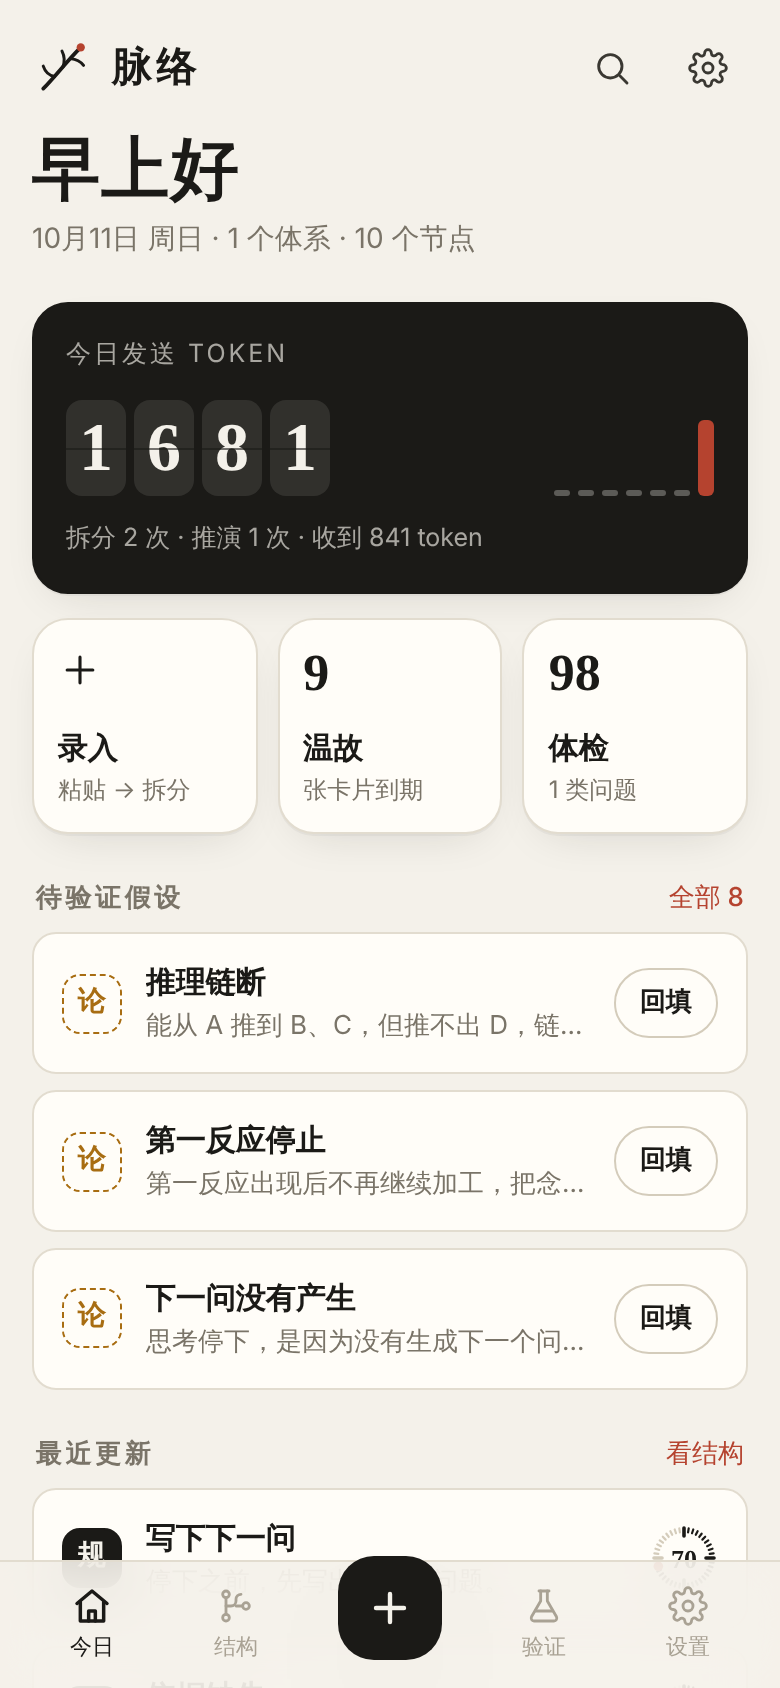
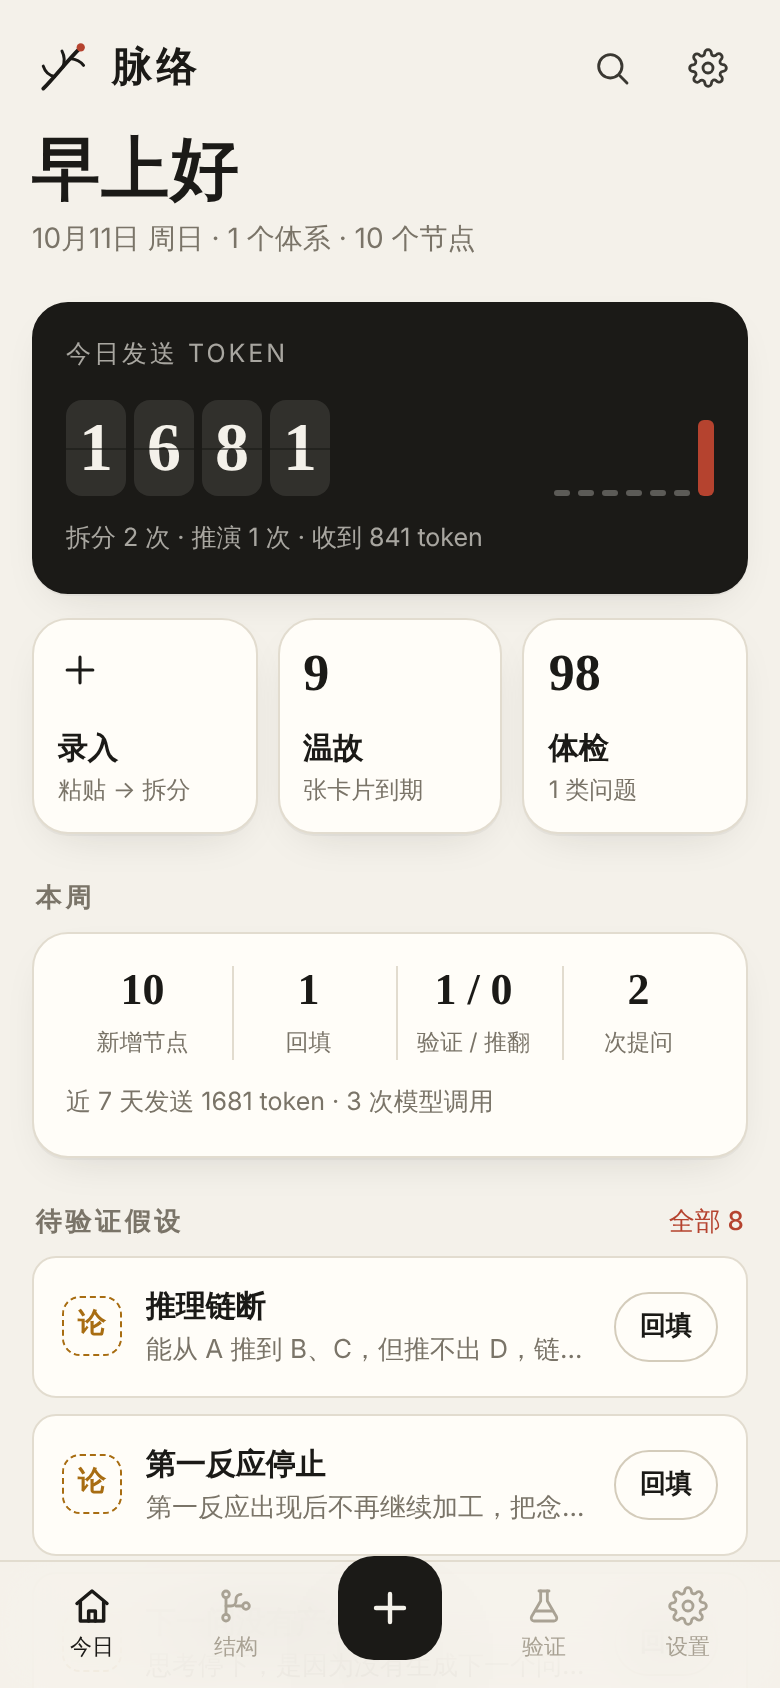
脉络 v0.1.4: weekly digest, one-tap 类似 links, duplicate merge, date fix
- Fix: js-yaml's default schema parsed `created: 2026-10-10` into a JS
  Date, so any node re-read from disk and saved again got its dates
  rewritten as "Sun Oct 11 2026 …". Parse with CORE_SCHEMA and repair
  dates already corrupted by earlier versions on read.
- Home: "本周" card (nodes added, backfills, verified/overturned, asks,
  tokens sent in the last 7 days), computed locally.
- Node page: analogy candidates get a "+类似" button that creates the
  relation with the matching rule as its reason.
- Health check finds likely duplicate node pairs; merge keeps one node,
  folds in the other's keywords, claim, checks and links, re-points
  incoming links (and their wikilinks) and deletes the other file.
- e2e: 60 checks; fixed two timing races in the test itself.

Claude-Session: https://claude.ai/code/session_01PpoubmpH672VUddJnJkeWm

diff --git a/mailuo/www/js/app.js b/mailuo/www/js/app.js
@@ -3,10 +3,10 @@ import { Store, TYPES, STATUSES, REL_TYPES, REL_HINT, REL_VIEW, findDuplicate, f
 import { openVault, IdbVault, FsVault, CapVault, exportZip, importZip, listSnapshots, snapshot, dailySnapshot, restoreSnapshot } from './vault.js';
 import { getConfig, setConfig, usage, callModel, PROMPT_SPLIT, splitUserMessage, extractJson, normalizeSplit, PROMPT_THINK, parseAnswer, PRESETS, estimateTokens, PROMPT_KEYWORDS, keywordsUserMessage } from './llm.js';
 import { buildPack, MODE_QUESTIONS, libraryTokens, systemOutline } from './pack.js';
-import { healthCheck, traceCause, longestChain, learningPath, dueReviews, gradeReview } from './features.js';
+import { healthCheck, traceCause, longestChain, learningPath, dueReviews, gradeReview, weeklyDigest } from './features.js';
 import { loadSeed, SEED_SYSTEM } from './seed.js';
 
-const VERSION = '0.1.3';
+const VERSION = '0.1.4';
 let store, vault;
 const app = document.getElementById('app');
 const session = { cands: loadDraft(), packRemoved: new Set(), lastAnswer: null, sys: localStorage.getItem('mailuo.sys') || '' };
@@ -181,6 +181,14 @@ function viewToday() {
     h('div', { class: 'tile', onclick: () => go('#/capture') }, icon('plus'), h('div', {}, h('div', { class: 't' }, '录入'), h('div', { class: 's' }, '粘贴 → 拆分'))),
     h('div', { class: 'tile', onclick: () => go('#/review'), 'data-testid': 'tile-review' }, h('div', { class: 'n' }, due), h('div', {}, h('div', { class: 't' }, '温故'), h('div', { class: 's' }, '张卡片到期'))),
     h('div', { class: 'tile', onclick: () => go('#/health') }, h('div', { class: 'n' }, hc.score), h('div', {}, h('div', { class: 't' }, '体检'), h('div', { class: 's' }, hc.issues.length + ' 类问题')))));
+
+  let asks = {};
+  try { asks = JSON.parse(localStorage.getItem('mailuo.asks') || '{}'); } catch { /* 空 */ }
+  const week = weeklyDigest(store, u, asks);
+  const stat = (n, label) => h('div', { class: 'stat' }, h('div', { class: 'n' }, n), h('div', { class: 's' }, label));
+  out.push(h('h2', { class: 'section' }, '本周'), h('div', { class: 'card weekly', 'data-testid': 'weekly' },
+    h('div', { class: 'stats' }, stat(week.created, '新增节点'), stat(week.checks, '回填'), stat(week.verified + ' / ' + week.overturned, '验证 / 推翻'), stat(week.asks, '次提问')),
+    h('div', { class: 'small muted mt' }, '近 7 天发送 ' + week.sent + ' token · ' + week.calls + ' 次模型调用')));
 
   const hyp = nodes.filter((n) => n.status === '假设').sort((a, b) => String(a.checks.at(-1)?.date || a.created).localeCompare(String(b.checks.at(-1)?.date || b.created)));
   if (hyp.length) {
@@ -497,7 +505,12 @@ function viewNode(id) {
   const an = findAnalogies(id, store, 3);
   if (an.length) {
     out.push(h('h2', { class: 'section' }, '结构相似', h('span', { class: 'more', onclick: () => go('#/ask/' + id + '?mode=analogy') }, '请 AI 判断')));
-    out.push(h('div', { class: 'list' }, an.map((a) => nodeRow(a.node, () => go('#/node/' + a.node.id), h('span', { class: 'pill outline small' }, a.reasons[0].split('：')[0])))));
+    out.push(h('div', { class: 'list' }, an.map((a) => nodeRow(a.node, () => go('#/node/' + a.node.id),
+      h('button', { class: 'btn sm', 'data-testid': 'link-like', title: a.reasons.join('；'), onclick: async (e) => {
+        e.stopPropagation();
+        await store.addLink(id, { type: '类似', to: a.node.id, why: a.reasons[0] });
+        toast('已建立「类似」关系'); route(true);
+      } }, '＋类似')))));
   }
 
   const asks = askHistory(id);
@@ -989,8 +1002,27 @@ function viewHealth(_, params) {
   out.push(h('div', { class: 'list mt' }, r.issues.map((i) => h('div', { class: 'card issue' },
     h('div', { class: 'ih' }, h('span', { class: 'lvl ' + i.level }), i.label, h('span', { class: 'small muted', style: { marginLeft: 'auto' } }, i.nodes.length)),
     h('div', { class: 'chips' }, i.nodes.slice(0, 12).map((n) => h('span', { class: 'kw', onclick: () => go('#/node/' + n.id) }, n.title))),
+    i.pairs ? h('div', { class: 'list mt' }, i.pairs.map(([a, b]) => h('div', { class: 'link-cand', 'data-testid': 'dupe-pair' },
+      h('div', { class: 'grow' }, h('b', {}, a.title), ' ≈ ', h('b', {}, b.title), h('div', { class: 'why' }, a.system + (a.system !== b.system ? ' / ' + b.system : ''))),
+      h('button', { class: 'btn sm', onclick: () => mergeSheet(a, b) }, icon('merge'), '合并')))) : null,
     i.key === 'kwCount' ? h('button', { class: 'btn sm mt', 'data-testid': 'fill-kw', onclick: () => fillKeywordsSheet(i.nodes) }, icon('spark'), 'AI 补全激活词（约 ' + estimateTokens(PROMPT_KEYWORDS + keywordsUserMessage(i.nodes.slice(0, 30))) + ' token）') : null))));
   return out;
+}
+
+function mergeSheet(a, b) {
+  sheet('合并两个节点', (box, close) => {
+    let keep = a.id;
+    const opt = (n) => h('label', { class: 'link-cand', style: { cursor: 'pointer' } },
+      h('input', { type: 'radio', name: 'keep', checked: n.id === keep, onchange: () => { keep = n.id; } }),
+      h('div', { class: 'grow' }, h('b', {}, n.title), h('div', { class: 'why' }, n.claim), h('div', { class: 'why' }, n.links.length + ' 条关系 · ' + n.status)));
+    box.append(h('p', { class: 'small muted' }, '选择保留哪一个。另一个的激活词、结论（补进说明）、验证记录和关系都会并过来，指向它的关系也会改指向保留的节点，然后删除它的文件。'),
+      h('div', { class: 'list' }, opt(a), opt(b)),
+      h('button', { class: 'btn primary block mt', 'data-testid': 'merge-confirm', onclick: async () => {
+        const drop = keep === a.id ? b.id : a.id;
+        await store.mergeNodes(keep, drop);
+        close(); route(true); toast('已合并');
+      } }, '合并'));
+  });
 }
 
 // 用便宜模型给激活词不足的节点补 3–5 个激活词；逐个确认后写入

diff --git a/mailuo/www/js/model.js b/mailuo/www/js/model.js
@@ -3,7 +3,7 @@
 //   思维问题/思维问题.md               体系文件（kind: system，记录层级列表）
 //   思维问题/加工层/第一反应停止.md     节点文件（层级 = 子文件夹）
 //   .mailuo/review.json               温故进度（App 自用，Obsidian 忽略）
-import { load as yamlLoad } from '../vendor/js-yaml.mjs';
+import { load as yamlLoad, CORE_SCHEMA } from '../vendor/js-yaml.mjs';
 
 export const TYPES = ['概念', '论断', '规则', '问题', '案例'];
 export const STATUSES = ['假设', '已验证', '已推翻'];
@@ -67,11 +67,21 @@ export function serializeNode(n, store) {
   return lines.join('\n') + '\n';
 }
 
+// 万一遇到 Date（例如旧版本写坏的文件），统一转回 YYYY-MM-DD
+function fixDates(v) {
+  if (v instanceof Date) return isNaN(v) ? '' : v.toISOString().slice(0, 10);
+  if (typeof v === 'string' && /^[A-Z][a-z]{2} [A-Z][a-z]{2} \d{2} \d{4} /.test(v)) { const d = new Date(v); return isNaN(d) ? v : d.toISOString().slice(0, 10); }
+  if (Array.isArray(v)) return v.map(fixDates);
+  if (v && typeof v === 'object') return Object.fromEntries(Object.entries(v).map(([k, x]) => [k, fixDates(x)]));
+  return v;
+}
+
 export function splitFrontmatter(text) {
   const m = /^---\r?\n([\s\S]*?)\r?\n---\r?\n?([\s\S]*)$/.exec(text || '');
   if (!m) return { meta: {}, body: text || '' };
   let meta = {};
-  try { meta = yamlLoad(m[1]) || {}; } catch (e) { meta = { __error: String(e.message || e) }; }
+  // CORE_SCHEMA：不把 2026-10-10 解析成 Date，日期保持字符串原样写回
+  try { meta = fixDates(yamlLoad(m[1], { schema: CORE_SCHEMA }) || {}); } catch (e) { meta = { __error: String(e.message || e) }; }
   return { meta, body: m[2] };
 }
 
@@ -223,6 +233,41 @@ export class Store {
     if (sysDirty || !old) await this.saveSystem(s);
     this.emit();
     return n;
+  }
+
+  // 合并两个节点：保留 keepId，把 dropId 的激活词、结论、验证记录和关系都并过来，再删掉 dropId
+  async mergeNodes(keepId, dropId) {
+    const keep = this.nodes.get(keepId), drop = this.nodes.get(dropId);
+    if (!keep || !drop || keepId === dropId) return;
+    keep.keywords = [...new Set([...keep.keywords, ...drop.keywords])].slice(0, 5);
+    if (drop.claim && drop.claim !== keep.claim && !keep.note.includes(drop.claim) && keep.note.split('\n').filter(Boolean).length < 3) {
+      keep.note = (keep.note ? keep.note + '\n' : '') + '补充：' + drop.claim;
+    }
+    keep.checks = [...keep.checks, ...drop.checks];
+    if (!keep.verify && drop.verify) keep.verify = drop.verify;
+    for (const l of drop.links) {
+      if (l.to === keepId || keep.links.some((x) => x.to === l.to && x.type === l.type)) continue;
+      keep.links.push({ ...l });
+    }
+    // 指向被合并节点的关系改指向保留的节点
+    const touched = new Set();
+    for (const n of this.nodes.values()) {
+      if (n.id === dropId) continue;
+      let changed = false;
+      for (const l of n.links) if (l.to === dropId) { l.to = keepId; changed = true; }
+      if (changed) {
+        const seen = new Set();
+        n.links = n.links.filter((l) => l.to !== n.id && !seen.has(l.type + l.to) && seen.add(l.type + l.to));
+        touched.add(n);
+      }
+    }
+    this.nodes.delete(dropId);
+    await this.vault.remove(drop.path);
+    delete this.review[dropId];
+    await this.saveNode(keep);
+    for (const n of touched) if (n !== keep) await this.vault.write(n.path, serializeNode(n, this));
+    await this.saveSystem(this.systems.get(drop.system));
+    this.emit();
   }
 
   async deleteNode(id) {

diff --git a/mailuo/www/js/features.js b/mailuo/www/js/features.js
@@ -2,7 +2,7 @@
 //   体检（health）：检查库里哪些地方会把「好听的故事」当成规则
 //   溯源（trace）：沿「导致」找根因与后果，沿「前置」排学习顺序
 //   温故（review）：间隔复习，看标题和激活词回想结论
-import { REL_TYPES, today } from './model.js';
+import { REL_TYPES, today, titleSim, sharedKeywords } from './model.js';
 
 const DAY = 86400000;
 const daysSince = (d) => (d ? Math.floor((Date.now() - new Date(d).getTime()) / DAY) : 999);
@@ -36,6 +36,15 @@ export function healthCheck(store, system) {
     if (l.type === '对立' && o && !(n.verify && o.verify)) pairs.push(n, o);
   }
   if (pairs.length) issues.push({ key: 'rivalNoTest', level: 'high', label: '对立的两个解释缺少区分方法（至少一方没写验证方式）', nodes: [...new Set(pairs)] });
+  // 可能重复：标题很像；标题较像且有共同激活词；或同体系里激活词重合 ≥ 3 个（已有对立 / 类似关系的不算）
+  const dupes = [];
+  for (let i = 0; i < nodes.length; i++) for (let j = i + 1; j < nodes.length; j++) {
+    const a = nodes[i], b = nodes[j];
+    if (a.links.some((l) => l.to === b.id && (l.type === '对立' || l.type === '类似')) || b.links.some((l) => l.to === a.id && (l.type === '对立' || l.type === '类似'))) continue;
+    const sim = titleSim(a.title, b.title), kw = sharedKeywords(a.keywords, b.keywords).length;
+    if (sim >= 0.6 || (sim >= 0.45 && kw >= 1) || (a.system === b.system && kw >= 3)) dupes.push([a, b]);
+  }
+  if (dupes.length) issues.push({ key: 'dupe', level: 'mid', label: '可能重复的节点', nodes: [...new Set(dupes.flat())], pairs: dupes.slice(0, 10) });
   const penalty = issues.reduce((s, i) => s + WEIGHT[i.level] * i.nodes.length, 0);
   // 每个节点平均扣 10 分即为 0 分
   const score = nodes.length ? Math.max(0, Math.round(100 - (penalty * 10) / nodes.length)) : 100;
@@ -114,4 +123,21 @@ export async function gradeReview(store, id, grade) {
   store.review[id] = { step, due, last: today(), n: (r.n || 0) + 1 };
   await store.saveReview();
   return days;
+}
+
+// ---------- 本周回顾（不耗 token） ----------
+export function weeklyDigest(store, usage, asks) {
+  const since = new Date(Date.now() - 6 * DAY).toISOString().slice(0, 10);
+  const nodes = store.list();
+  const created = nodes.filter((n) => String(n.created || '') >= since);
+  const checks = nodes.flatMap((n) => n.checks.filter((c) => String(c.date) >= since).map((c) => ({ n, c })));
+  let sent = 0, calls = 0;
+  for (const [d, v] of Object.entries(usage || {})) if (d >= since) for (const r of Object.values(v)) { sent += r.sent || 0; calls += r.n || 0; }
+  const askN = Object.values(asks || {}).flat().filter((a) => String(a.date) >= since).length;
+  return {
+    created: created.length, checks: checks.length,
+    verified: checks.filter((x) => x.c.status === '已验证').length,
+    overturned: checks.filter((x) => x.c.status === '已推翻').length,
+    sent, calls, asks: askN,
+  };
 }

diff --git a/mailuo/www/css/app.css b/mailuo/www/css/app.css
@@ -411,3 +411,8 @@ details.manual > .btn.block { width: calc(100% - 32px); }
 .savings svg.i { width: 14px; height: 14px; color: var(--faint); }
 .savings .pill { margin-left: auto; }
 .link-cand input[type=checkbox] { width: 18px; height: 18px; accent-color: var(--ink); flex: none; }
+.weekly .stats { display: grid; grid-template-columns: repeat(4, 1fr); gap: 6px; text-align: center; }
+.weekly .stat .n { font: 600 22px/1.1 var(--serif); font-variant-numeric: tabular-nums; }
+.weekly .stat .s { font-size: 11.5px; color: var(--muted); margin-top: 4px; }
+.weekly .stat + .stat { border-left: 1px solid var(--line); }
+.link-cand input[type=radio] { width: 18px; height: 18px; accent-color: var(--ink); flex: none; }

diff --git a/mailuo/www/sw.js b/mailuo/www/sw.js
@@ -1,5 +1,5 @@
 // 离线缓存：网络优先，断网时用缓存（数据本身在 IndexedDB / 本地文件夹，不经过这里）
-const CACHE = 'mailuo-v0.1.3';
+const CACHE = 'mailuo-v0.1.4';
 self.addEventListener('install', (e) => self.skipWaiting());
 self.addEventListener('activate', (e) => e.waitUntil(caches.keys().then((ks) => Promise.all(ks.filter((k) => k !== CACHE).map((k) => caches.delete(k)))).then(() => self.clients.claim())));
 self.addEventListener('fetch', (e) => {

diff --git a/mailuo/README.md b/mailuo/README.md
@@ -176,6 +176,15 @@ updated: 2026-10-10
 - **AI 补全激活词**：体检里「激活词不是 3–5 个」这一项有个按钮，按下后由便宜模型一次生成最多 30 个节点的激活词（按钮上会显示预估 token），你勾选确认后才写入。
 - **复制体系大纲**：结构页可以把整个体系复制成 Markdown 大纲，包含层级、结论、激活词和关系，方便手动模式下把整体结构一起给聊天 App。
 
+## v0.1.4：长期维护
+
+![](docs/screenshots/19-weekly.png)
+
+- **本周回顾**：今日页的「本周」卡片统计近 7 天新增节点、回填、验证 / 推翻次数、提问次数和发送的 token，不调用模型。
+- **一键建立「类似」关系**：节点页「结构相似」里的候选可以直接点 ＋类似，理由会自动填上命中的规则。
+- **重复节点合并**：体检会找出可能重复的节点对：标题很像，标题较像且有共同激活词，或同一体系里激活词重合 ≥ 3 个。合并时你选择保留哪一个，另一个的激活词、结论、验证记录和关系都会并过来，指向它的关系和双链也会改过来。
+- **修复（重要）**：之前读取文件时，YAML 会把 `created: 2026-10-10` 解析成日期对象，再保存就变成了 `Sun Oct 11 2026 …`。现在日期按原样保留。已经被写坏的日期，下次打开时会自动修正。
+
 ## 视觉设计
 
 参考仓库里的 `design/references/ui/` 素材：
@@ -207,7 +216,7 @@ PASS 推演走旗舰模型，且不发整库
 PASS 回答按结构先行格式解析，「建议新增」解析成 3 张候选卡片
 PASS 超预算：先砍邻居说明 → 再砍远层路径 → 节点本身永不砍
 PASS 拖动改父级：文件移到新层级文件夹
-……共 54 项（含 v0.1.1–v0.1.3 新增功能）
+……共 60 项（含 v0.1.1–v0.1.4 新增功能）
 ```
 
 **还没验证的：** 在真机上安装 APK，以及调用真实的模型接口。这里的测试都用模拟接口。Obsidian 这边只验证了双链能对上文件名，YAML 能被标准解析器读取，还没有实际用 Obsidian 打开过。
